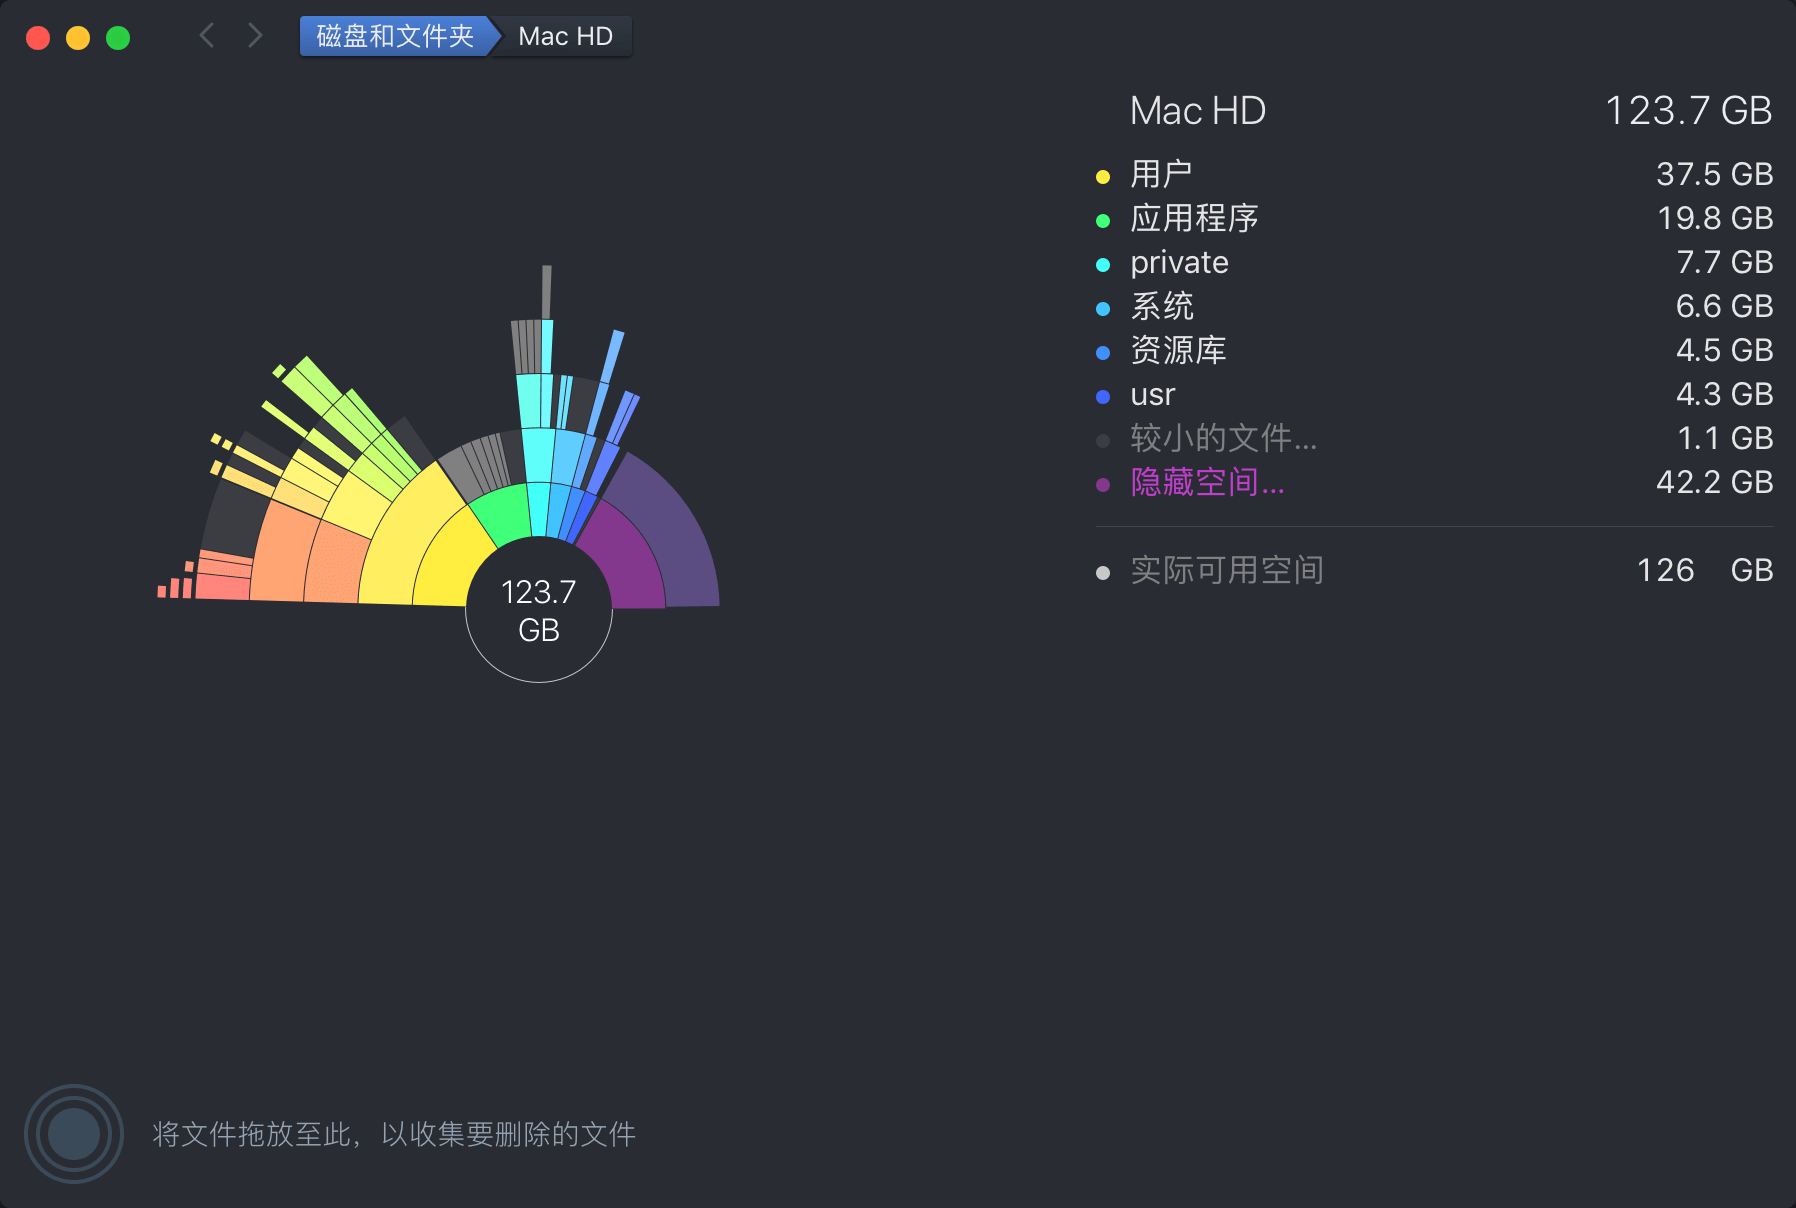
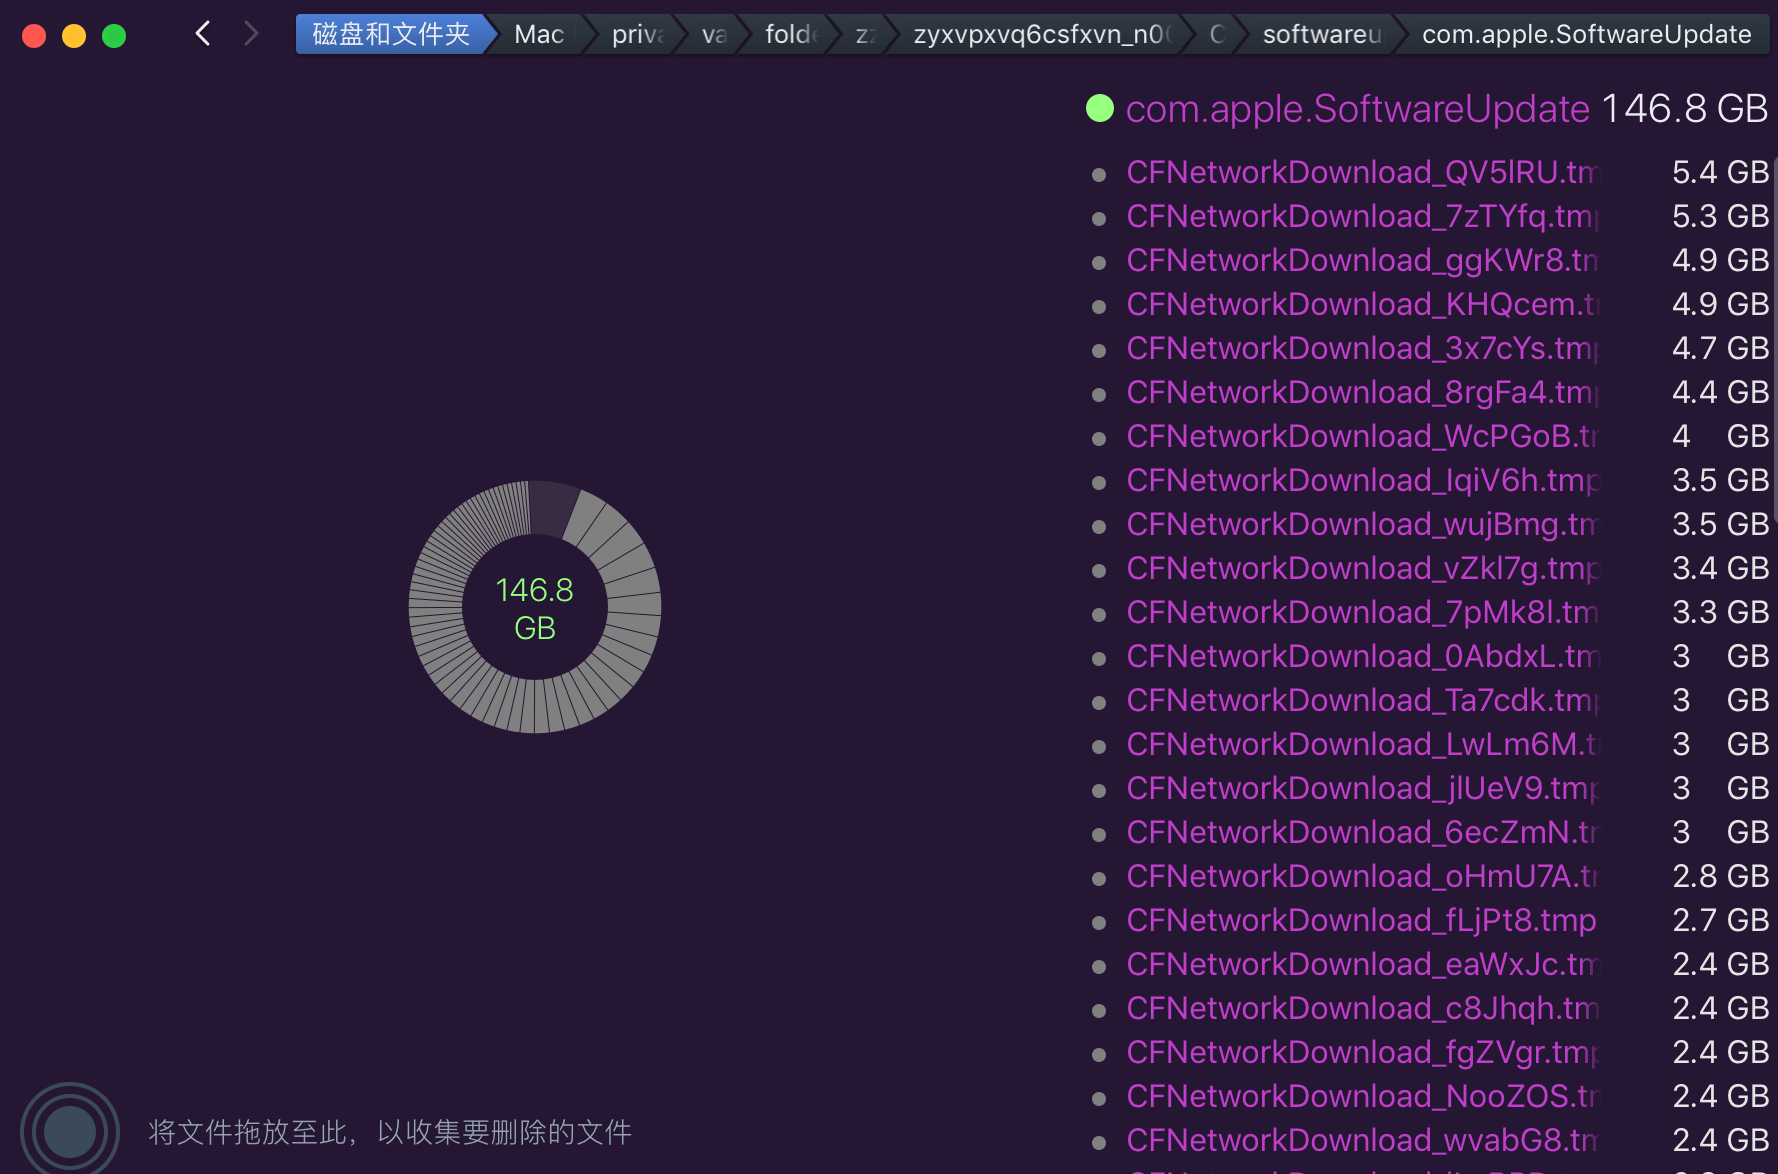
feat: add new blog

Changed region(s): [[0.1547, 0.0, 1.0, 0.9813], [0.0928, 0.2147, 0.4021, 0.644], [0.0, 0.8893, 0.3712, 1.0]]

diff --git a/source/_posts/retalk-mac-system-space-cleaning.md b/source/_posts/retalk-mac-system-space-cleaning.md
@@ -19,5 +19,54 @@ categories: Mac
 
 我是通过`DaisyDisk`这个软件来分析磁盘空间的占据情况。
 
+![2.png](/img/Mac/2.png)
+
+根据可视化界面可以看出在`/private/var/folders/zz/zyxvpxvq6csfxvn_n00000s0000068/C/softwareupdated/com.apple.SoftwareUpdate`目录下,有一堆文件,命名类似`CFNetworkDownload*`。
+
+直接拖拽删除，软件会提示说，是系统依赖的文件，不可以删除。难道就放任这堆文件，占据接近150GB的空间吗？
+
+经过一番查找，弄清楚了原因:
+
+1、`/private/var/folders/zz/zyxvpxvq6csfxvn_n00000s0000068/C/softwareupdated/com.apple.SoftwareUpdate`大量形如CFNetworkDownload_0gIeHN.tmp的文件是下载软件更新的缓存文件，可以删除。
+2、`2015Mac OSX 10.11 EI Capitan`之后，OS X引入了`SIP(SystemIntegrity Protection)`系统完整性保护，这样有的目录是进不去的。
+3、在网上搜索Mac关闭SIP，有一堆教程，参考执行，大致步骤：重启时按住Cmd+R进入Recovery模式，然后通过csrutil status, csrutil disable等命令关闭SIP。
+4、关闭后，`sudo su`，然后就可以访问相关目录，删除文件了。
+5、删除文件要谨慎，删除的时候，需要十分明白你在干什么，否则还是保守点别做了，本教程不负任何责任，删除完成后，马上重启电脑，即可重新打开SIP。
+**********************
+### ** SIP **
+
+SIP 全称为`「System Integrity Protection」即「系统完整性保护」`，是 `OS X El Capitan` 时开始采用的一项安全技术，SIP 将一些文件目录和系统应用保护了起来。但这会影响我们一些使用或设置，比如：更改系统应用图标、终端操作系统目录文件提示「Operation not permitted」、Finder 无法编辑系统目录里的文件。
+
+因为 SIP 是系统级的权限操作，我们无法直接关闭它，需要前往「macOS 恢复功能」下进行。
+将 Mac 开机，立即在键盘上按住 `Command ⌘ + R`，直到看到 `Apple` 标志或旋转的地球时松开。看到「实用工具」窗口时，恢复功能启动即完成。
+
+![3.png](/img/Mac/3.png)
+![4.png](/img/Mac/4.png)
+#### ** 查看状态/关闭/开启 **
+
+```
+# 查看状态
+csrutil status
+
+# 关闭sip
+csrutil disable
+
+# 开启sip
+csrutil enable
+```
 
 **********************
+### ** 后记 **
+
+这个磁盘问题，我折腾了大半年了吧。知道这几天才真正解决。多出了接近150GB的空间出来。
+
+这里有几点体会:
+1. 遇到事情，可以不用一直折腾。但是不要放弃，偶尔回过头来看看。
+2. 方法工具很重要。之前尝试了很多工具,比如`OmniDiskSweeper`,`腾讯柠檬`等，都没能彻底解决问题。最近和同事交流才知道了`DaisyDisk`。
+
+**********************
+### ** 参考链接 **
+
+- [CFNetworkDownload_xxxxxxx.tmp是什么文件，怎么才能清理释放磁盘空间？](https://bbs.feng.com/read-htm-tid-11706537.html)
+- [macOS 开启或关闭 SIP](https://sspai.com/post/55066)
+
